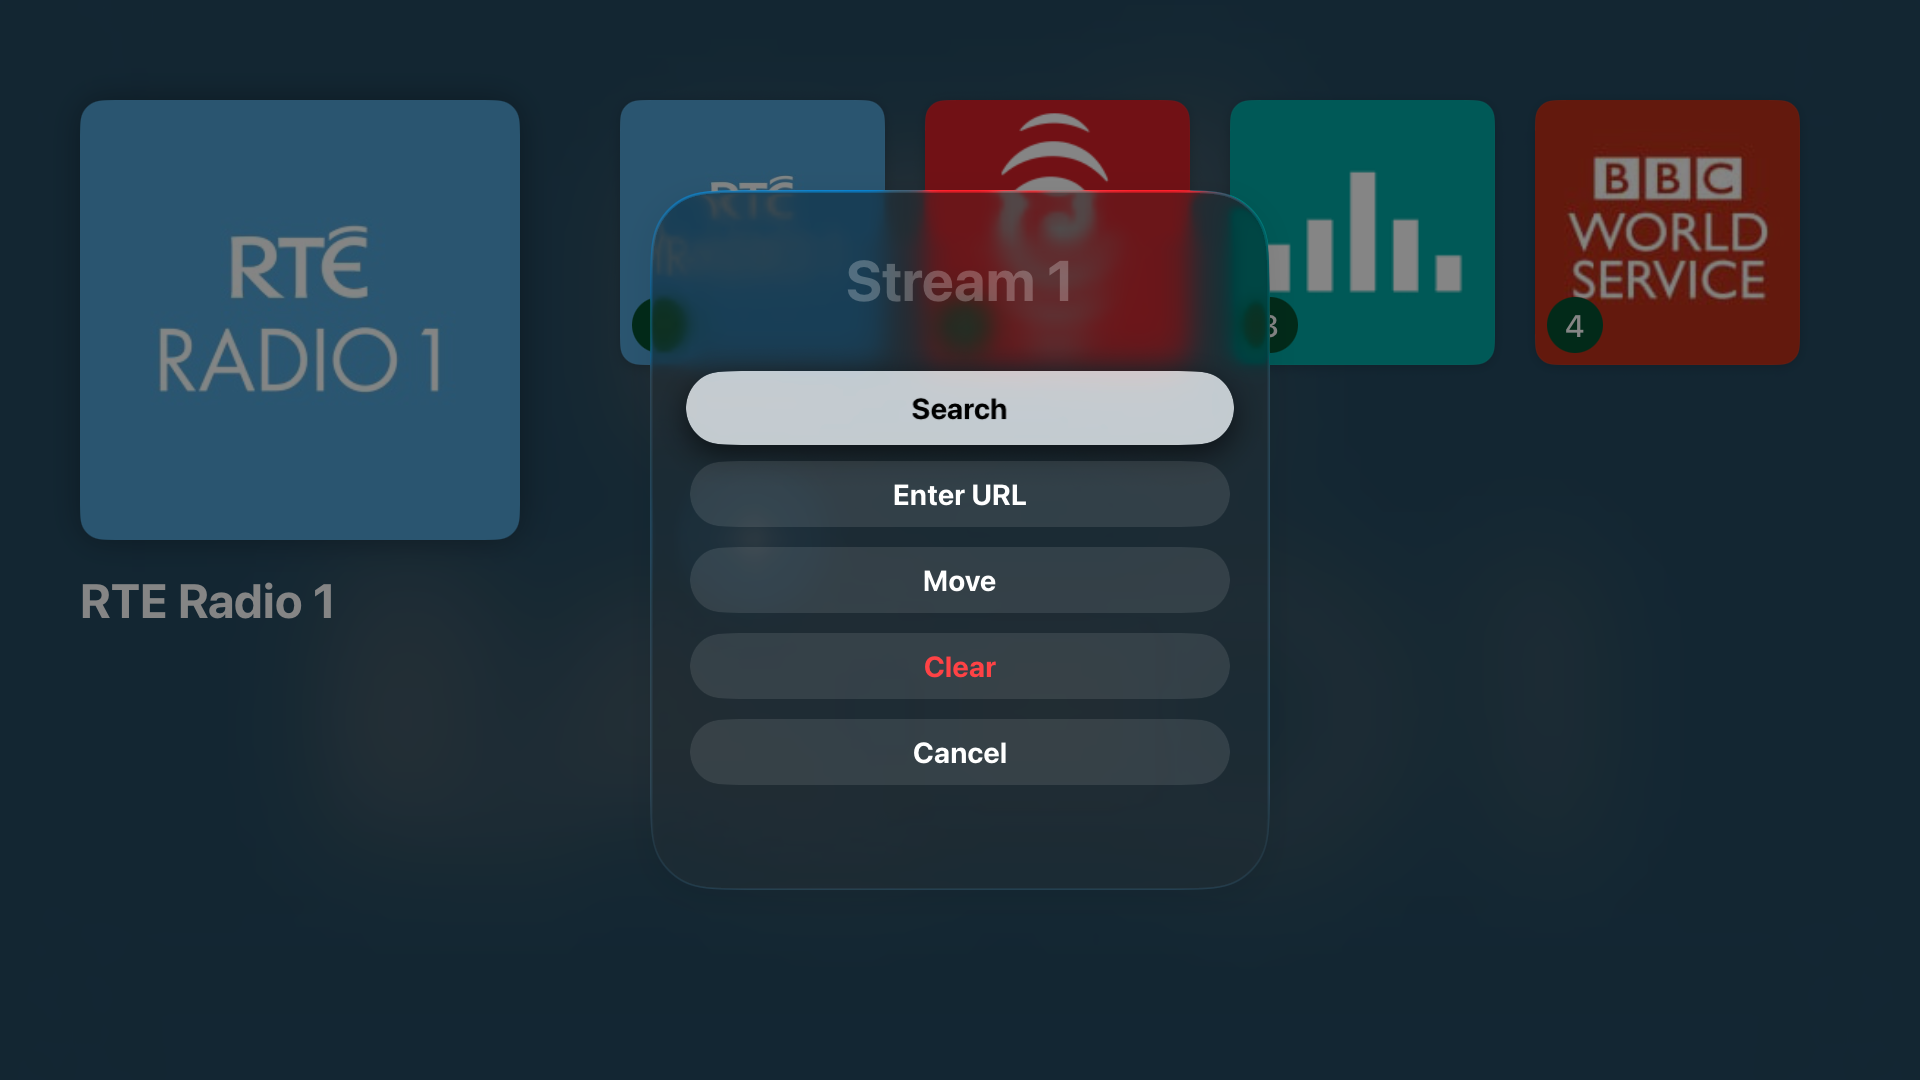
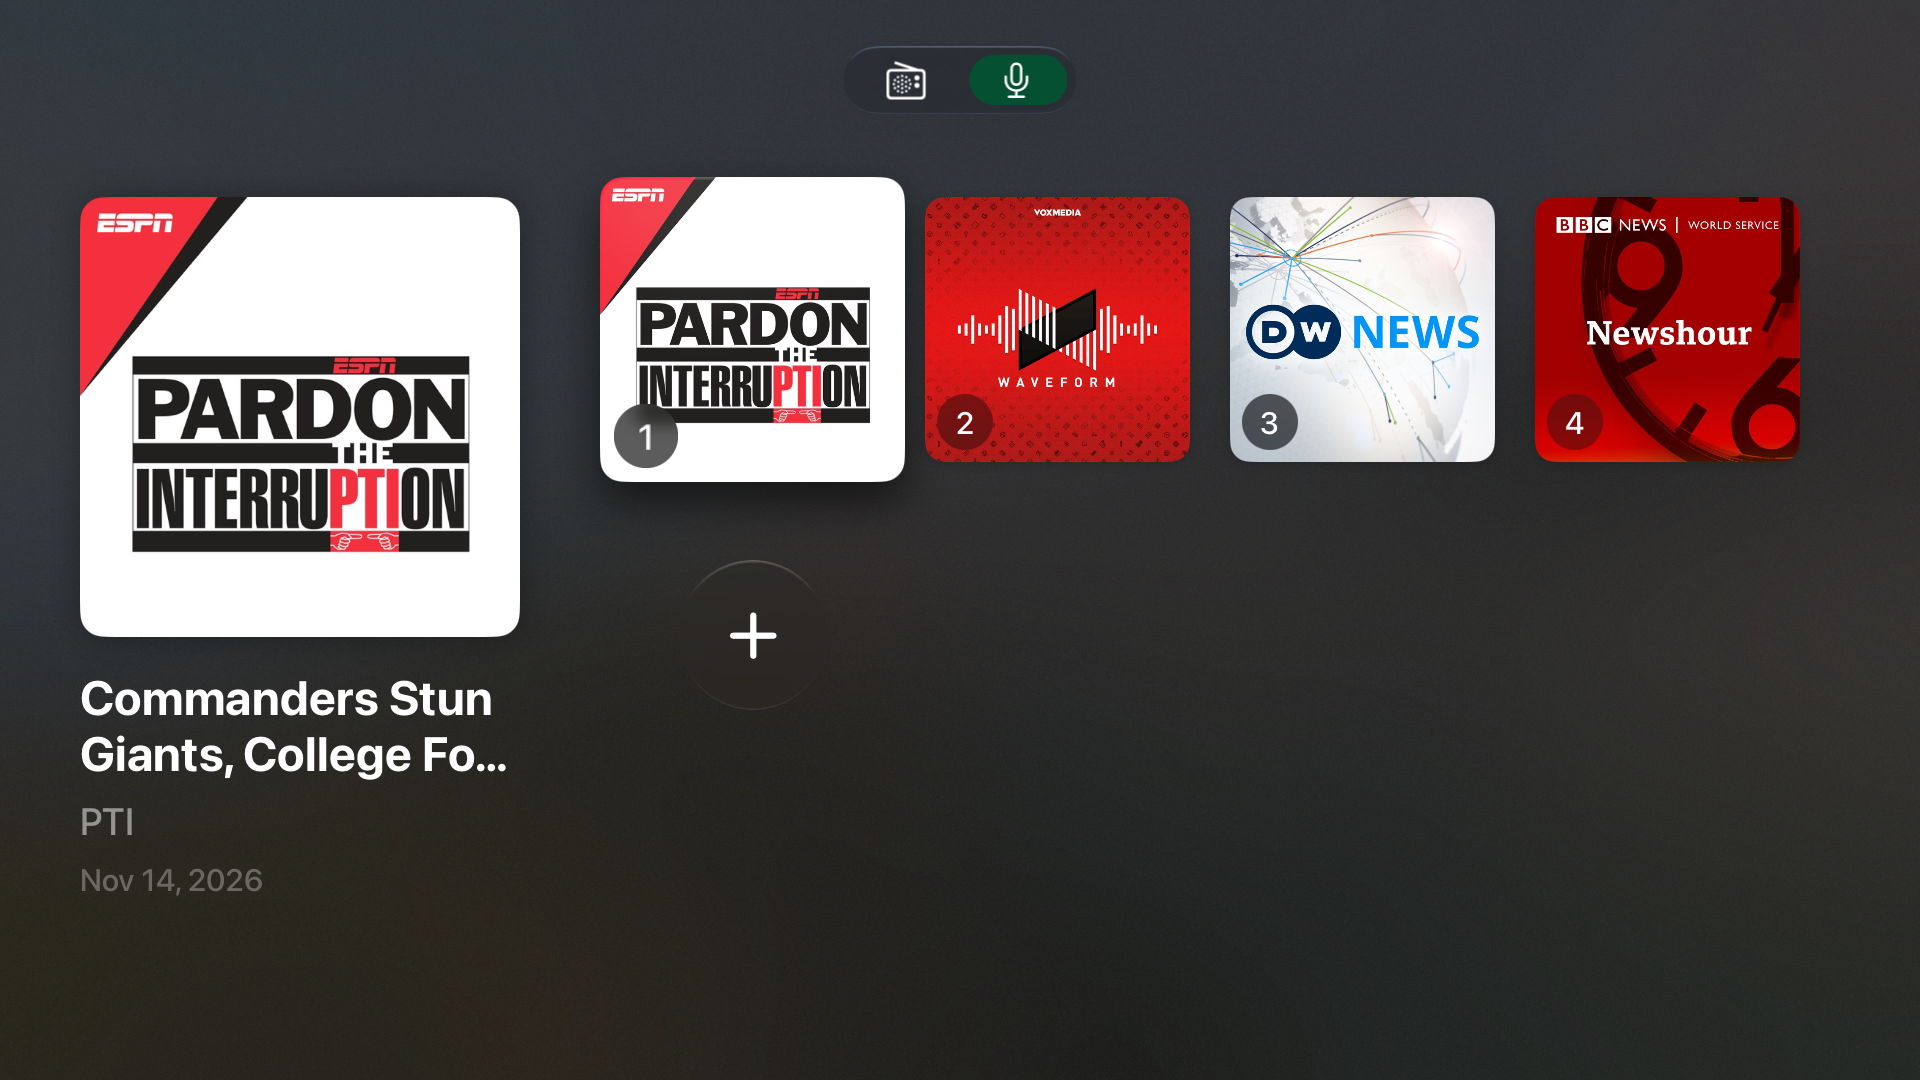
Screenshot update

diff --git a/Taiga Stream/Views/Podcasts/PodcastsPage.swift b/Taiga Stream/Views/Podcasts/PodcastsPage.swift
@@ -4,8 +4,6 @@
 import Foundation
 import SwiftUI
 
-/// The Podcasts tab: the same layout as the stations, with a Now Playing
-/// panel on the left and a grid of podcast artwork on the right.
 struct PodcastsPage: View {
 	@ObservedObject var library = PodcastLibrary.shared
 	@State private var movingIndex: Int? = nil
@@ -47,27 +45,9 @@ struct PodcastsPage: View {
 					.disabled(movingIndex != nil)
 				}
 				.padding(40)
-				// The gap to the panel is inside the scroll area, so the
-				// focused tile's shadow has room on the left too.
 				.padding(.leading, 60)
 			}
-			// The focused tile grows and casts a shadow past the grid's
-			// edge; without this the scroll view cuts it off in a straight
-			// line next to the panel.
 			.scrollClipDisabled()
-		}
-		.background {
-			GeometryReader { geometry in
-				PodcastArtwork(
-					highlightedID: highlightedPodcast,
-					size: geometry.size.width
-				)
-				.frame(width: geometry.size.width, height: geometry.size.height)
-				.clipped()
-				.blur(radius: 60, opaque: true)
-				.overlay(Color.black.opacity(0.55))
-			}
-			.ignoresSafeArea()
 		}
 		.onExitCommand(
 			perform: movingIndex == nil ? nil : { movingIndex = nil }
@@ -99,8 +79,6 @@ struct PodcastsPage: View {
 	}
 }
 
-/// The podcast the panel and background show: the one playing or paused,
-/// otherwise the one with focus.
 private func shownPodcast(highlightedID: UUID?) -> Podcast? {
 	let library = PodcastLibrary.shared
 	if let id = PodcastPlayer.shared.activePodcastID,
@@ -172,7 +150,9 @@ struct PodcastNowPlayingPanel: View {
 			if let podcast = shownPodcast(highlightedID: highlightedID) {
 				let isActive = player.activePodcastID == podcast.id
 				let episode =
-					isActive ? player.activeEpisode : library.currentEpisode(for: podcast)
+					isActive
+					? player.activeEpisode
+					: library.currentEpisode(for: podcast)
 				if let episode {
 					Text(episode.title.isEmpty ? podcast.name : episode.title)
 						.font(.title3)
@@ -207,12 +187,16 @@ struct PodcastNowPlayingPanel: View {
 			isActive
 			? player.position
 			: library.savedPosition(podcastID: podcast.id, episode: episode)
-		let duration = isActive ? (player.duration ?? episode.duration) : episode.duration
+		let duration =
+			isActive ? (player.duration ?? episode.duration) : episode.duration
 		if let duration, duration > 0, position > 0 {
 			ProgressView(value: min(position / duration, 1))
 				.tint(Color(.secondaryLabel))
 		}
-		if let detail = PodcastFormat.remaining(position: position, duration: duration)
+		if let detail = PodcastFormat.remaining(
+			position: position,
+			duration: duration
+		)
 			?? PodcastFormat.date(episode.publishedAt)
 		{
 			Text(detail)

diff --git a/Taiga Stream/Views/MainView.swift b/Taiga Stream/Views/MainView.swift
@@ -86,19 +86,6 @@ struct RadioPage: View {
 			}
 			.scrollClipDisabled()
 		}
-		.background {
-			GeometryReader { geometry in
-				StationArtwork(
-					highlightedIndex: highlightedIndex,
-					size: geometry.size.width
-				)
-				.frame(width: geometry.size.width, height: geometry.size.height)
-				.clipped()
-				.blur(radius: 60, opaque: true)
-				.overlay(Color.black.opacity(0.55))
-			}
-			.ignoresSafeArea()
-		}
 		.onExitCommand(
 			perform: movingIndex == nil ? nil : { movingIndex = nil }
 		)
